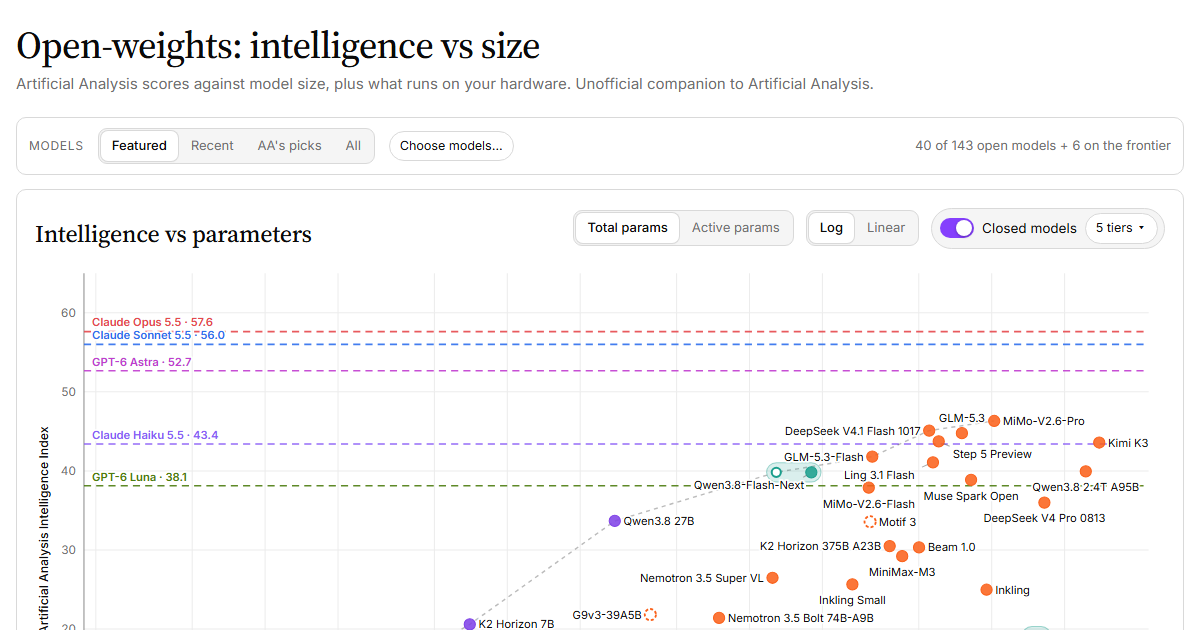
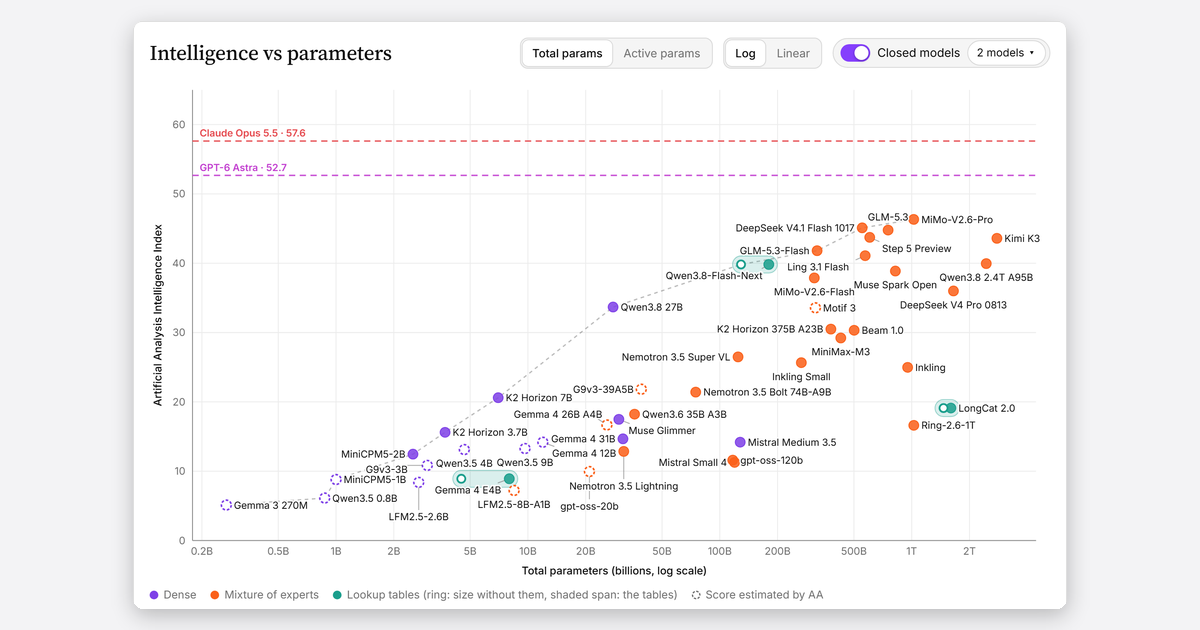
README refresh, new screenshots

diff --git a/README.md b/README.md
@@ -1,19 +1,47 @@
+<div align="center">
+
 # Open-weights: intelligence vs size
 
-**Live site: https://mr-september.github.io/artificial-analysis-weights/**
+[Artificial Analysis](https://artificialanalysis.ai/) scores open-weights models on its Intelligence Index, but plots it against price and speed, not size. This site plots the index against **parameter count** for every open-weights model it scores, then shows which ones your GPU, RAM or unified memory can run. Unofficial: not affiliated with Artificial Analysis or Hugging Face.
 
-[![Chart of the Artificial Analysis Intelligence Index against parameter count](assets/og.png)](https://mr-september.github.io/artificial-analysis-weights/)
+[![License](https://img.shields.io/badge/License-MIT-green.svg)](LICENSE)
+[![Live Demo](https://img.shields.io/badge/Demo-Live-brightgreen.svg)](https://mr-september.github.io/artificial-analysis-weights/)
+[![Deploy](https://github.com/mr-september/artificial-analysis-weights/actions/workflows/pages.yml/badge.svg)](https://github.com/mr-september/artificial-analysis-weights/actions/workflows/pages.yml)
+[![Data: Artificial Analysis](https://img.shields.io/badge/Data-Artificial%20Analysis-7c3aed.svg)](https://artificialanalysis.ai/)
 
-[Artificial Analysis](https://artificialanalysis.ai/) scores open-weights models on its Intelligence Index, but its charts plot intelligence against price and speed, not size. This site plots the index against **parameter count** (total or active) for every open-weights model it scores, and adds a "What should I run?" guide: say how much VRAM, RAM or unified memory you have and which precision you want, and it shows which models fit, how they are placed, and how they trade off coding against knowledge and speed. Useful if you want to run an LLM locally and need to know what your hardware can take.
+**Intelligence vs size** · **What fits your hardware** · **Refreshed every 3 days**
 
-Unofficial. Not affiliated with or endorsed by Artificial Analysis or Hugging Face.
+### [Try it live](https://mr-september.github.io/artificial-analysis-weights/)
 
-## Reading the charts
+<a href="https://mr-september.github.io/artificial-analysis-weights/">
+  <picture>
+    <source media="(prefers-color-scheme: dark)" srcset="docs/screenshots/chart-dark.png">
+    <img src="docs/screenshots/chart-light.png" alt="Artificial Analysis Intelligence Index against parameter count for open-weights models, with Claude Opus and GPT Astra as dashed reference lines" width="900">
+  </picture>
+</a>
 
-- **Main chart.** Intelligence Index against total or active parameters, log or linear. The dashed line is the frontier: no smaller model scores higher. Frontier models are always shown, whichever model set you pick. A MoE's *active* parameters set its speed, its *total* parameters set its memory.
+</div>
+
+---
+
+## What it shows
+
+- **Intelligence vs parameters.** The Intelligence Index against total or active parameters, log or linear. The dashed line is the frontier: no smaller model scores higher. Frontier models are always shown, whichever model set you pick. A MoE's *active* parameters set its speed, its *total* parameters set its memory.
 - **Lookup-table models** (n-gram or per-layer embedding tables, such as Qwen3.8-Flash-Next) appear as two linked points: the ring is the size without the tables, the filled dot the full size. The tables take memory but almost no bandwidth, so they can sit on SSD. The frontier uses the ring.
 - **Closed models.** They publish no sizes, so the optional "Closed models" switch draws the latest model of each product tier at the leading closed labs as dashed score lines.
-- **What should I run?** Weights fill VRAM, then system RAM, then SSD if you allow it. A model counts as usable if a bandwidth estimate gives it a few tokens per second; the estimate is rough and not shown. On RTX 5000 / Blackwell, "4-bit" means NVFP4, elsewhere GGUF Q4_K_M. Artificial Analysis scored hosted endpoints, so quantized local copies will score lower.
+- **Model sets.** Featured (hand-curated), Recent, Artificial Analysis's own picks, All, or choose models one by one.
+
+## What should I run?
+
+<div align="center">
+<picture>
+  <source media="(prefers-color-scheme: dark)" srcset="docs/screenshots/run-dark.png">
+  <img src="docs/screenshots/run-light.png" alt="Hardware picker, a quadrant of coding versus knowledge strength against speed, and top picks for the chosen hardware" width="700">
+</picture>
+</div>
+
+- **Pick your hardware:** GPU only, GPU plus system RAM, or unified memory; total VRAM, RAM size and precision. Weights fill VRAM, then RAM, then SSD if you allow it. A model counts as usable if a bandwidth estimate gives it a few tokens per second; the estimate is rough and not shown.
+- **Precision.** On RTX 5000 / Blackwell, "4-bit" means NVFP4, elsewhere GGUF Q4_K_M. Artificial Analysis scored hosted endpoints, so quantized local copies will score lower.
 - **Quadrant.** Horizontal: coding and agentic percentile minus knowledge and instruction-following percentile (Artificial Analysis has no creative-writing eval). Vertical: speed, approximated by fewer active parameters. Dot size: Intelligence Index. A ring marks models that nothing beats on both speed and intelligence.
 
 ## Where the data comes from
@@ -27,17 +55,9 @@ Unofficial. Not affiliated with or endorsed by Artificial Analysis or Hugging Fa
 
 A GitHub Action refreshes `data/` every three days and redeploys. It refuses to publish if a scrape returns under 80% of the previous model count, and its log lists recent open models that are not in the Featured set.
 
-## Corrections and curation
+## Getting started
 
-- Wrong parameter count or missing lookup-table size: edit `data/overrides.json` (keyed by Artificial Analysis family id, for example `qwen3-8-flash-next`).
-- Featured set and picker order: edit `data/curated.json`.
-- Hardware numbers: `assets/hardware.js`. Fit logic: `assets/core.js`.
-
-Pull requests welcome.
-
-## Development
-
-No build step; it is a static site with stdlib-only Python for the data refresh.
+No build step: a static site, with stdlib-only Python for the data refresh.
 
 ```
 python scripts/update.py        # refresh data (optional)
@@ -53,14 +73,34 @@ Open these via the local server; each prints PASS or FAIL:
 ```
 index.html, assets/          the site (core.js: fit logic, hardware.js: presets, app.js: UI)
 data/                        models.json (generated), curated.json and overrides.json (hand-edited), caches
+docs/screenshots/            README images
 scripts/                     scrape_aa.py, hf.py, update.py
 .github/workflows/pages.yml  refresh and deploy
 ```
 
+## Corrections and curation
+
+- Wrong parameter count or missing lookup-table size: edit `data/overrides.json` (keyed by Artificial Analysis family id, for example `qwen3-8-flash-next`).
+- Featured set and picker order: edit `data/curated.json`.
+- Hardware numbers: `assets/hardware.js`. Fit logic: `assets/core.js`.
+
+Pull requests welcome.
+
+<div align="center">
+
 ## Support
 
-Free and open source. If it saved you time, you can support its upkeep: [Ko-fi](https://ko-fi.com/Q5Q11I49GI) · [Liberapay](https://liberapay.com/mr-september/donate) · [PayPal](https://www.paypal.com/donate/?hosted_button_id=WFXL2T42BBCRN) · [Crypto](https://nowpayments.io/donation?api_key=5b5fabd5-2c33-4525-99a3-bf27f587780c). Stars, bug reports and corrections to the curated data help just as much.
+Free and open source. If it saved you time, you can chip in toward its upkeep.
 
-## Credits and license
+<a href="https://ko-fi.com/Q5Q11I49GI"><img src="https://ko-fi.com/img/githubbutton_sm.svg" alt="Ko-fi" height="32"></a>
+<a href="https://liberapay.com/mr-september/donate"><img src="https://liberapay.com/assets/widgets/donate.svg" alt="Liberapay" height="32"></a>
+<a href="https://www.paypal.com/donate/?hosted_button_id=WFXL2T42BBCRN"><img src="https://raw.githubusercontent.com/mr-september/central_automation_hub/refs/heads/main/bluePayPalbutton.svg" alt="PayPal" height="32"></a>
+<a href="https://nowpayments.io/donation?api_key=5b5fabd5-2c33-4525-99a3-bf27f587780c"><img src="https://nowpayments.io/images/embeds/donation-button-black.svg" alt="Crypto donation button by NOWPayments" height="32"></a>
 
-Benchmark data belongs to [Artificial Analysis](https://artificialanalysis.ai/); sizes and model metadata come from [Hugging Face](https://huggingface.co/). Please credit them if you reuse it, and follow their terms. The code and hand-curated files in this repository are MIT licensed (see `LICENSE`).
+Stars, bug reports (wrong sizes, missing models) and suggestions for the Featured list help just as much.
+
+</div>
+
+## License and credits
+
+The code and hand-curated files in this repository are [MIT](LICENSE) licensed. Benchmark data belongs to [Artificial Analysis](https://artificialanalysis.ai/); sizes and model metadata come from [Hugging Face](https://huggingface.co/). Please credit them if you reuse it, and follow their terms.
